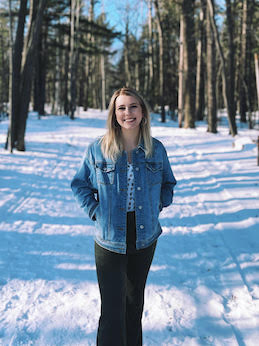
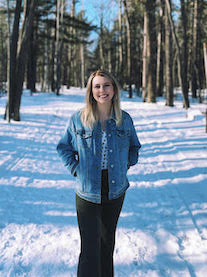
Refractored about page.

diff --git a/src/Pages/AboutPage.js b/src/Pages/AboutPage.js
@@ -1,5 +1,4 @@
 import React from 'react';
-import { Row, Col, Image } from 'react-bootstrap';
 
 import Hero from '../Components/Hero/Hero';
 import './AboutPage.css';
@@ -11,33 +10,30 @@ function AboutPage(props) {
     const randi = require('../Assets/randi.jpg');
 
     return(
-        <div>
+        <div className="about-container">
             <div>
                 <Hero title={props.title} />
             </div>
-            <div className="about-container">    
-                <Row>
-                    <Col xs={12} md={4} className="image-container">
-                        <Image src={randi} roundedCircle />
-                    </Col>
-                    <Col xs={12} md={8} className="bio-container">
-                        <div>
-                            <p>Randi Clemens is a poet, editor, and educator who lives in the Upper Peninsula of 
-                                Michigan. She received her BA in Creative Writing from the University of Illinois at
-                                Urbana-Champaign and her MFA in poetry from Northern Michigan University where
-                                she also taught composition and creative writing. Her poetry has been published in
-                                various online journals and has been nominated for the Best of the Net. She has worked
-                                as an editor for Ninth Letter and served as the Managing Editor of Passages North. She is
-                                interested in contemporary poetry, science writing, museum studies, feminist literary
-                                theory, women and gender studies, visual poetics, and social justice pedagogy. She is
-                                actively seeking a home for her full-length manuscript and freelance opportunities as a
-                                creative consultant and/or editor.</p>
-                        </div>
-                        <div className="button-resume-container">
-                            <Link className="button-resume-link" to={Resume} target="_blank" download>Download Resume</Link> 
-                        </div>   
-                    </Col>
-                </Row> 
+            <div>
+
+            </div>
+            <div>
+                <article className="bio-container">
+                    <img className="randi-image" src={randi} alt="professional"></img>
+                    <p>Randi Clemens is a poet, editor, and educator who lives in the Upper Peninsula of 
+                        Michigan. She received her BA in Creative Writing from the University of Illinois at
+                        Urbana-Champaign and her MFA in poetry from Northern Michigan University where
+                        she also taught composition and creative writing. Her poetry has been published in
+                        various online journals and has been nominated for the Best of the Net. She has worked
+                        as an editor for Ninth Letter and served as the Managing Editor of Passages North. She is
+                        interested in contemporary poetry, science writing, museum studies, feminist literary
+                        theory, women and gender studies, visual poetics, and social justice pedagogy. She is
+                        actively seeking a home for her full-length manuscript and freelance opportunities as a
+                        creative consultant and/or editor.</p>
+                </article>
+                <div className="button-container">
+                    <Link className="button-link" to={Resume} target="_blank" download>Download Resume</Link> 
+                </div>
             </div>
         </div>
     )

diff --git a/src/Pages/AboutPage.css b/src/Pages/AboutPage.css
@@ -1,51 +1,44 @@
 .about-container {
-    margin: 2rem 4rem auto 4rem;
-}
-
-@media screen and (max-width: 37.5rem) {
-    .about-container {
-        margin: 1.5rem 1rem auto 1rem;
-    }
-}
-
-.image-container {
-    display: flex;
-    justify-content: center;
-    padding-bottom: 2.5rem;
-    padding-top: 1rem;
-}
-
-@media screen and (max-width: 47.938rem) {
-    .image-container {
-        padding-top: 0rem;
-        padding-bottom: 1.5rem;
-    }
+    margin-bottom: 1rem;
 }
 
 .bio-container {
     text-align: center;
-    display: flex;
-    flex-direction: column;
-    justify-content: center;
-    align-items: center;
+    margin: auto 5rem 1rem 5rem;
+    display: table;
 }
 
-.button-resume-container {
+.randi-image {
+    float: left;
+    margin-right: 1rem;
+    border-radius: 4rem;
+}
+
+@media screen and (max-width: 31.25rem) {
+    .bio-container {
+        margin: auto 2rem 1rem 2rem;
+    }
+    .randi-image {
+        float: none;
+        margin-right: 0;
+        margin-bottom: 2rem;
+    }
+}
+
+.button-container {
+    display: flex;
+    justify-content: center;
+    flex-direction: row;
+    flex-wrap: wrap;
+}
+
+.button-link {
     width: 14rem;
     border-radius: 1rem;
     background-color: #55bba3;
     font-weight: 700;
     padding: .5rem 1rem .5rem 1rem;
-    margin-top: .5rem;
     margin-bottom: 1rem;
-}
-
-.button-resume-link {
     color: white;
-}
-
-@media screen and (max-width: 47.938rem) {
-    .button-resume-container {
-        margin-bottom: 2rem;
-    }
+    text-align: center;
 }
